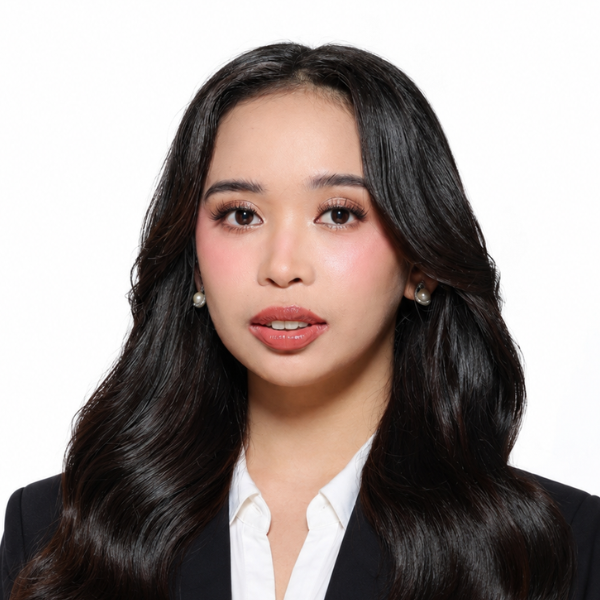
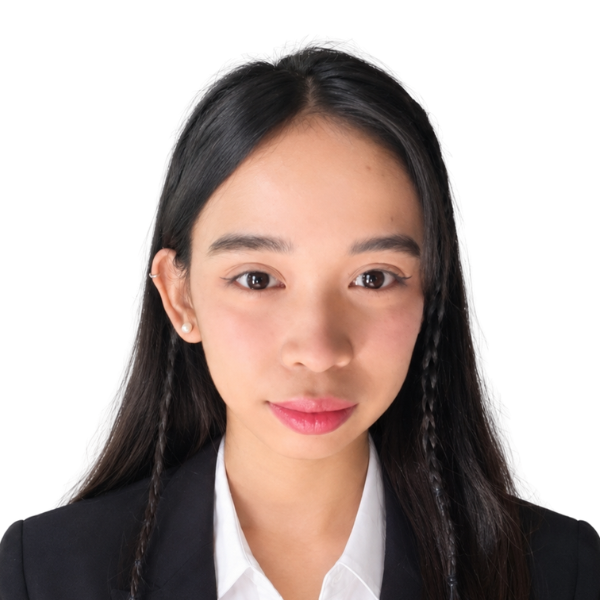
Changed photos

diff --git a/src/pages/Projects/Projects.jsx b/src/pages/Projects/Projects.jsx
@@ -139,6 +139,8 @@ export const Projects = () => {
       screenshots: [
         "/projects/photobooth/photobooth.png",
         "projects/photobooth/1.png",
+        "projects/photobooth/2.png",
+        "projects/photobooth/3.png",
       ],
 
       technologies: [
